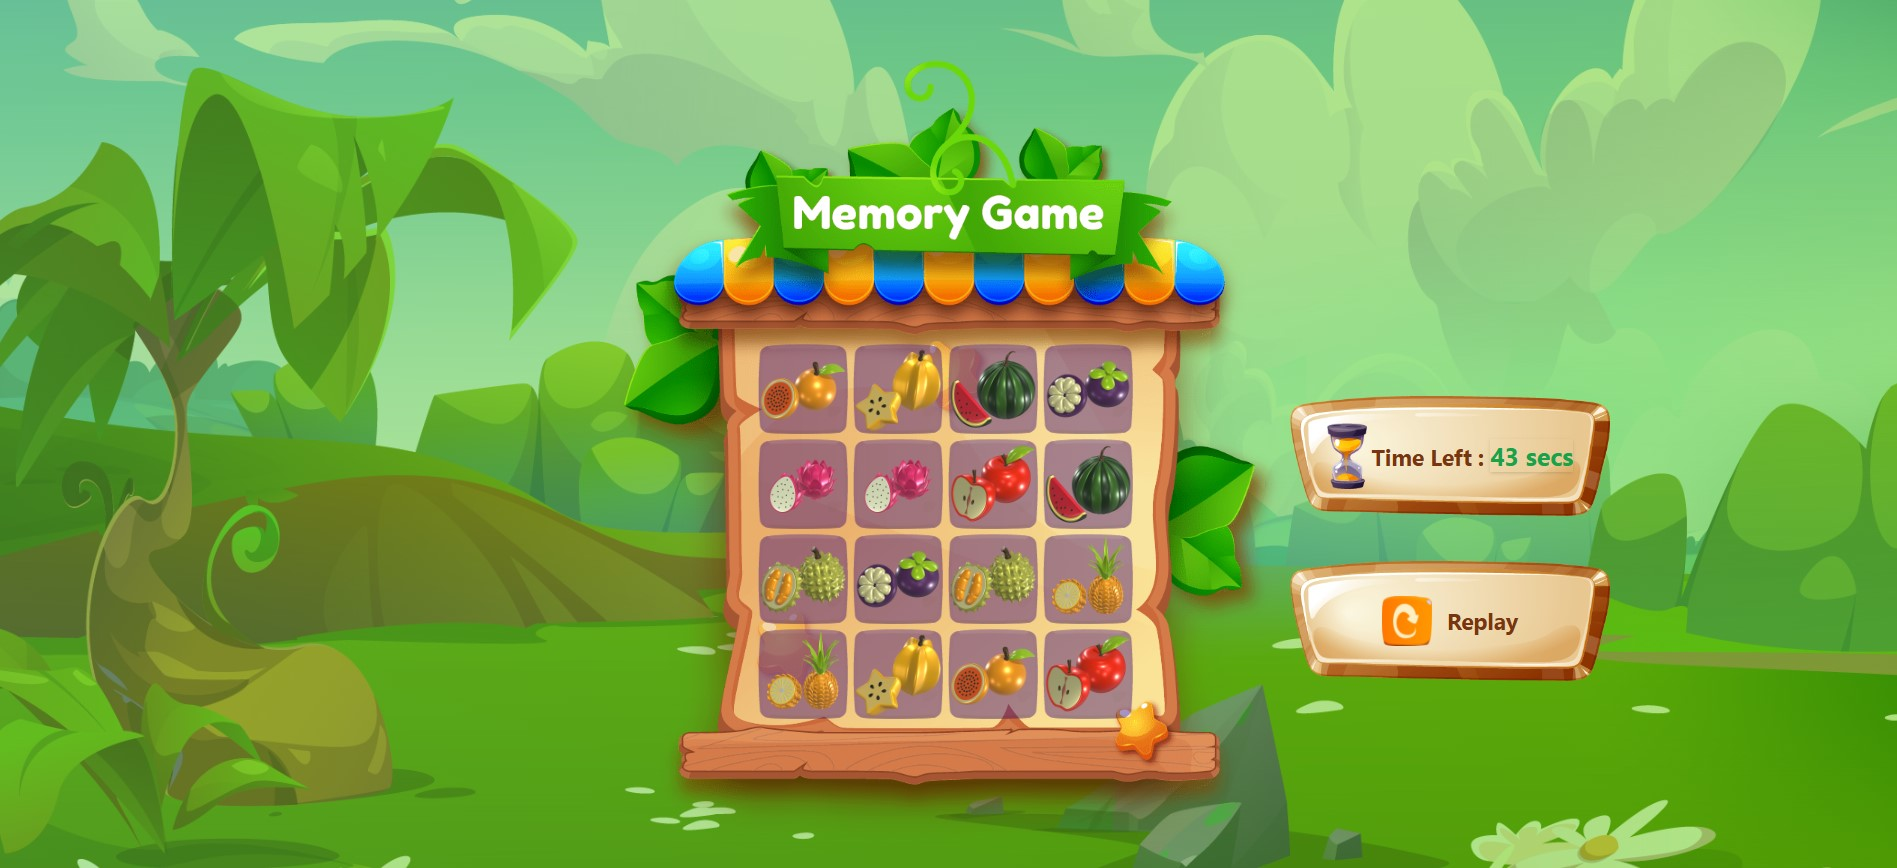
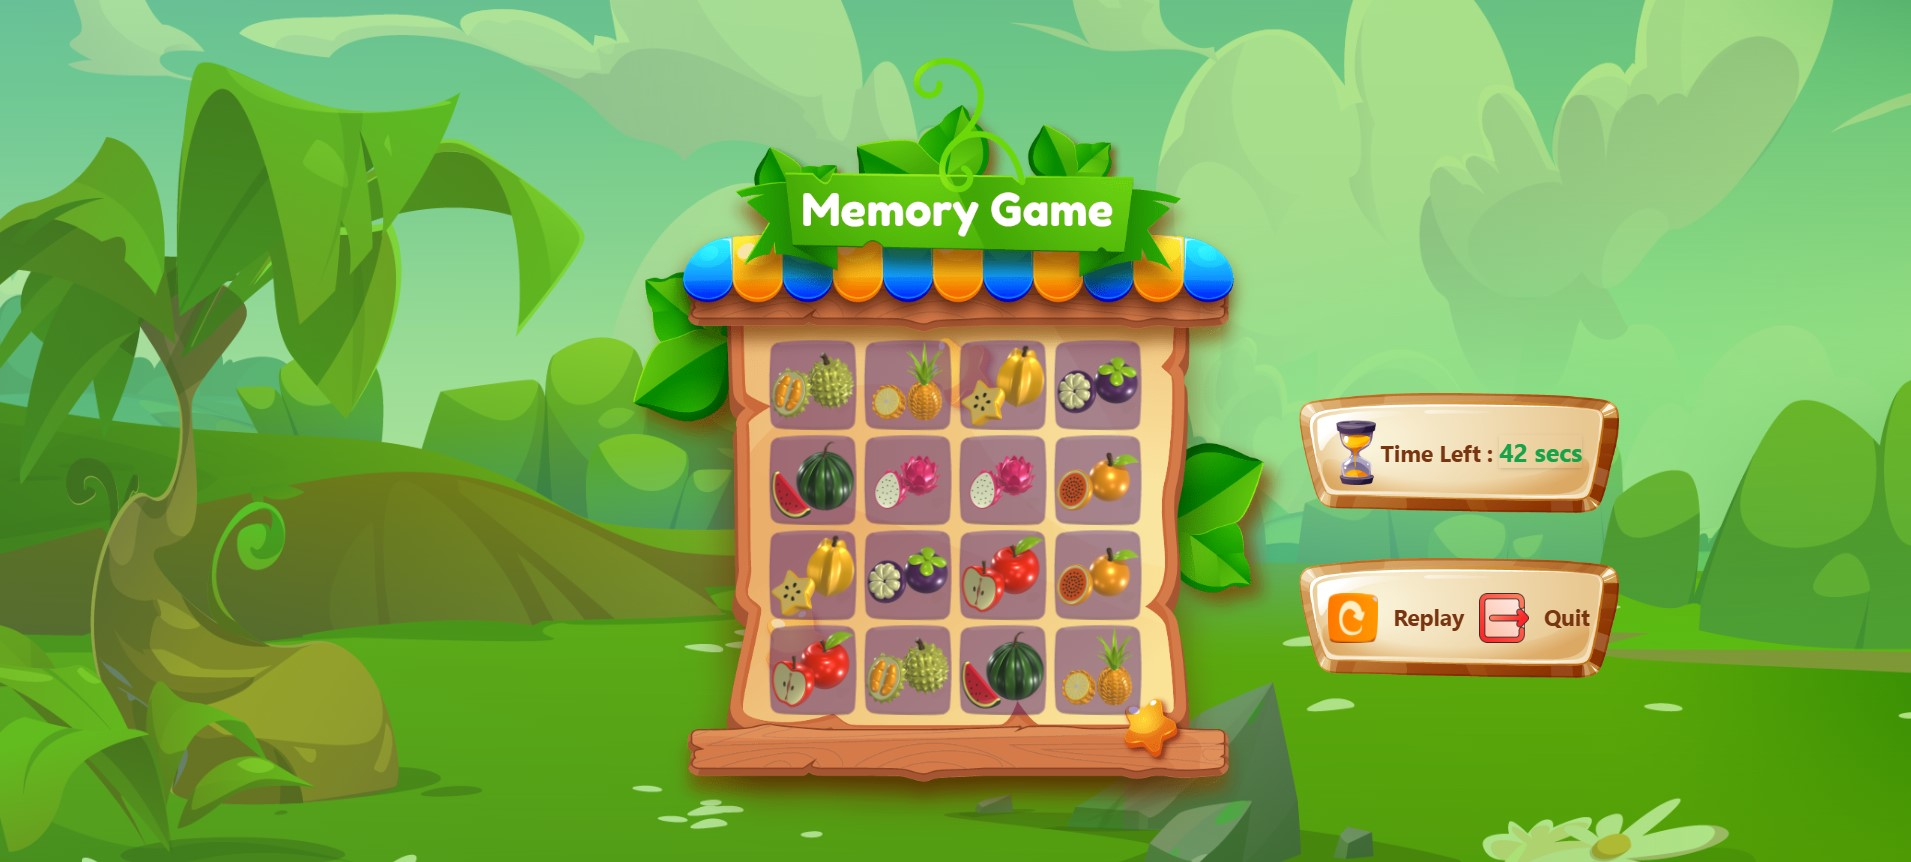
added quit button in memory-card game interface

diff --git a/src/context/GameContextProvider.jsx b/src/context/GameContextProvider.jsx
@@ -1,4 +1,5 @@
 import React, { createContext, useEffect, useRef, useState } from 'react';
+import { useNavigate } from 'react-router-dom'; // Import useNavigate
 
 // Import fruit images
 import apple from "../assets/images/fruits/apple.png";
@@ -13,21 +14,18 @@ import watermelon from "../assets/images/fruits/watermelon.png";
 export const GameContext = createContext();
 
 const GameContextProvider = ({ children }) => {
+  const navigate = useNavigate(); // Initialize useNavigate
   const [cards, setCards] = useState([]);
   const [flippedCards, setFlippedCards] = useState([]);
   const [matchedPairs, setMatchedPairs] = useState([]);
   const [showIcons, setShowIcons] = useState(true);
-
   const [timeLeft, setTimeLeft] = useState(45);
   const [gameOver, setGameOver] = useState(false);
   const [gameWon, setGameWon] = useState(false);
-    const timerRef = useRef(null); // useRef to keep track of the timer
-    
-      const [score, setScore] = useState(0);
-
+  const timerRef = useRef(null);
+  const [score, setScore] = useState(0);
 
   useEffect(() => {
-    // Fruit icons array
     const fruitIcons = [
       apple,
       dragonfruit,
@@ -38,12 +36,9 @@ const GameContextProvider = ({ children }) => {
       starfruit,
       watermelon,
     ];
-
-    // Create pairs for each fruit and shuffle them
     const pairIcons = [...fruitIcons, ...fruitIcons];
     const shuffledIcons = pairIcons.sort(() => Math.random() - 0.5);
 
-    // Map shuffled icons to card objects
     const cardItems = shuffledIcons.map((fruit, index) => ({
       id: index,
       fruit,
@@ -52,28 +47,24 @@ const GameContextProvider = ({ children }) => {
 
     setCards(cardItems);
 
-    // Show all icons initially for 3 seconds
     setTimeout(() => {
       setShowIcons(false);
     }, 3000);
 
-    // Timer logic to count down the remaining time
     timerRef.current = setInterval(() => {
       setTimeLeft((prev) => {
         if (prev <= 1) {
           clearInterval(timerRef.current);
-          if (!gameWon) setGameOver(true); // Time up, game over
+          if (!gameWon) setGameOver(true);
           return 0;
         }
         return prev - 1;
       });
     }, 1000);
 
-    // Clear interval on component unmount
     return () => clearInterval(timerRef.current);
   }, [gameWon]);
 
-  // Function to handle card flips
   const flipCard = (index) => {
     if (flippedCards.length === 2) return;
 
@@ -87,26 +78,16 @@ const GameContextProvider = ({ children }) => {
       if (newFlippedCards.length === 2) {
         const [firstIndex, secondIndex] = newFlippedCards;
 
-        if (
-          updatedCards[firstIndex].fruit === updatedCards[secondIndex].fruit
-        ) {
-          const newMatchedPairs = [
-            ...matchedPairs,
-            updatedCards[firstIndex].fruit,
-          ];
+        if (updatedCards[firstIndex].fruit === updatedCards[secondIndex].fruit) {
+          const newMatchedPairs = [...matchedPairs, updatedCards[firstIndex].fruit];
           setMatchedPairs(newMatchedPairs);
 
-          // Check if all pairs are matched
           if (newMatchedPairs.length === cards.length / 2) {
-              clearInterval(timerRef.current);
-              
-            // Delay the game won UI display by 1 second
+            clearInterval(timerRef.current);
             setTimeout(() => {
               setGameWon(true);
-            }, 1000); 
-              
+            }, 1000);
             setScore(timeLeft * 10);
-              
           }
         } else {
           setTimeout(() => {
@@ -116,19 +97,21 @@ const GameContextProvider = ({ children }) => {
             setCards(resetCards);
           }, 1000);
         }
-
         return [];
       }
-
       return newFlippedCards;
     });
   };
 
-  // Function to restart the game
   const restartGame = () => {
     window.location.reload();
   };
-    
+
+  // Function to quit the game and navigate to /miniGames
+  const quitGame = () => {
+    navigate('/miniGames');
+  };
+
   return (
     <GameContext.Provider
       value={{
@@ -136,19 +119,17 @@ const GameContextProvider = ({ children }) => {
         flipCard,
         matchedPairs,
         showIcons,
-
         timeLeft,
         gameOver,
         gameWon,
         restartGame,
-
+        quitGame, // Include quitGame in context
         score,
       }}
     >
       {children}
-      
     </GameContext.Provider>
   );
 }
 
-export default GameContextProvider
+export default GameContextProvider;

diff --git a/src/components/MemoryCardGame/SideBar.jsx b/src/components/MemoryCardGame/SideBar.jsx
@@ -1,11 +1,12 @@
 import React, { useContext } from 'react';
 import ClockBtn from "../../assets/images/clock.png";
+import QuitBtn from "../../assets/images/logout.png";
 import RestartBtn from "../../assets/images/restart-btn.png";
 import { GameContext } from '../../context/GameContextProvider';
 
 const SideBar = () => {
 
-    const { timeLeft, restartGame } = useContext(GameContext);
+    const { timeLeft, restartGame, quitGame } = useContext(GameContext);
 
   return (
     <div className=" absolute right-36 md:-right-52 -bottom-[7.5rem] md:bottom-32 flex flex-col items-start gap-1">
@@ -25,6 +26,10 @@ const SideBar = () => {
         <button onClick={restartGame} className="flex items-center gap-3">
           <img src={RestartBtn} alt="" className=" w-8 h-8 md:w-10 md:h-10" />
           <p className=" text-amber-900 md:text-lg font-bold">Replay</p>
+        </button>
+        <button onClick={quitGame} className="flex items-center gap-3">
+          <img src={QuitBtn} alt="" className=" w-8 h-8 md:w-10 md:h-10" />
+          <p className=" text-amber-900 md:text-lg font-bold">Quit</p>
         </button>
       </div>
     </div>
